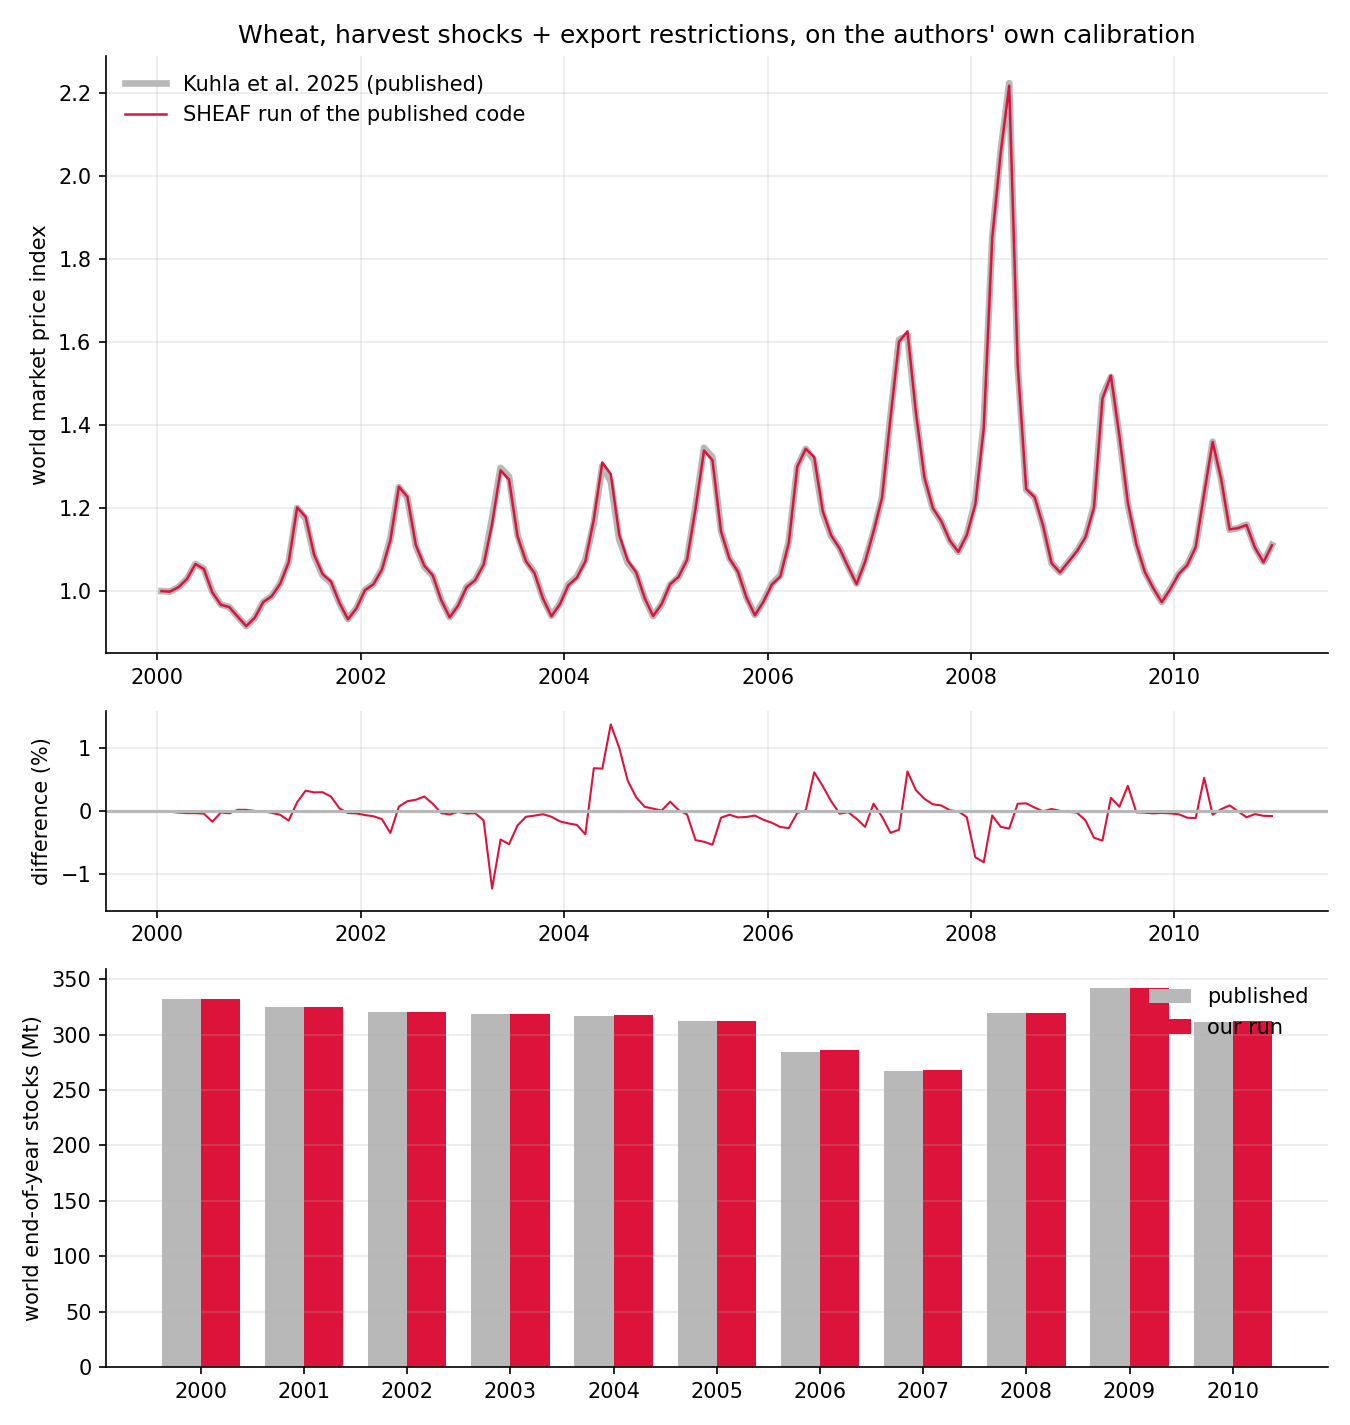
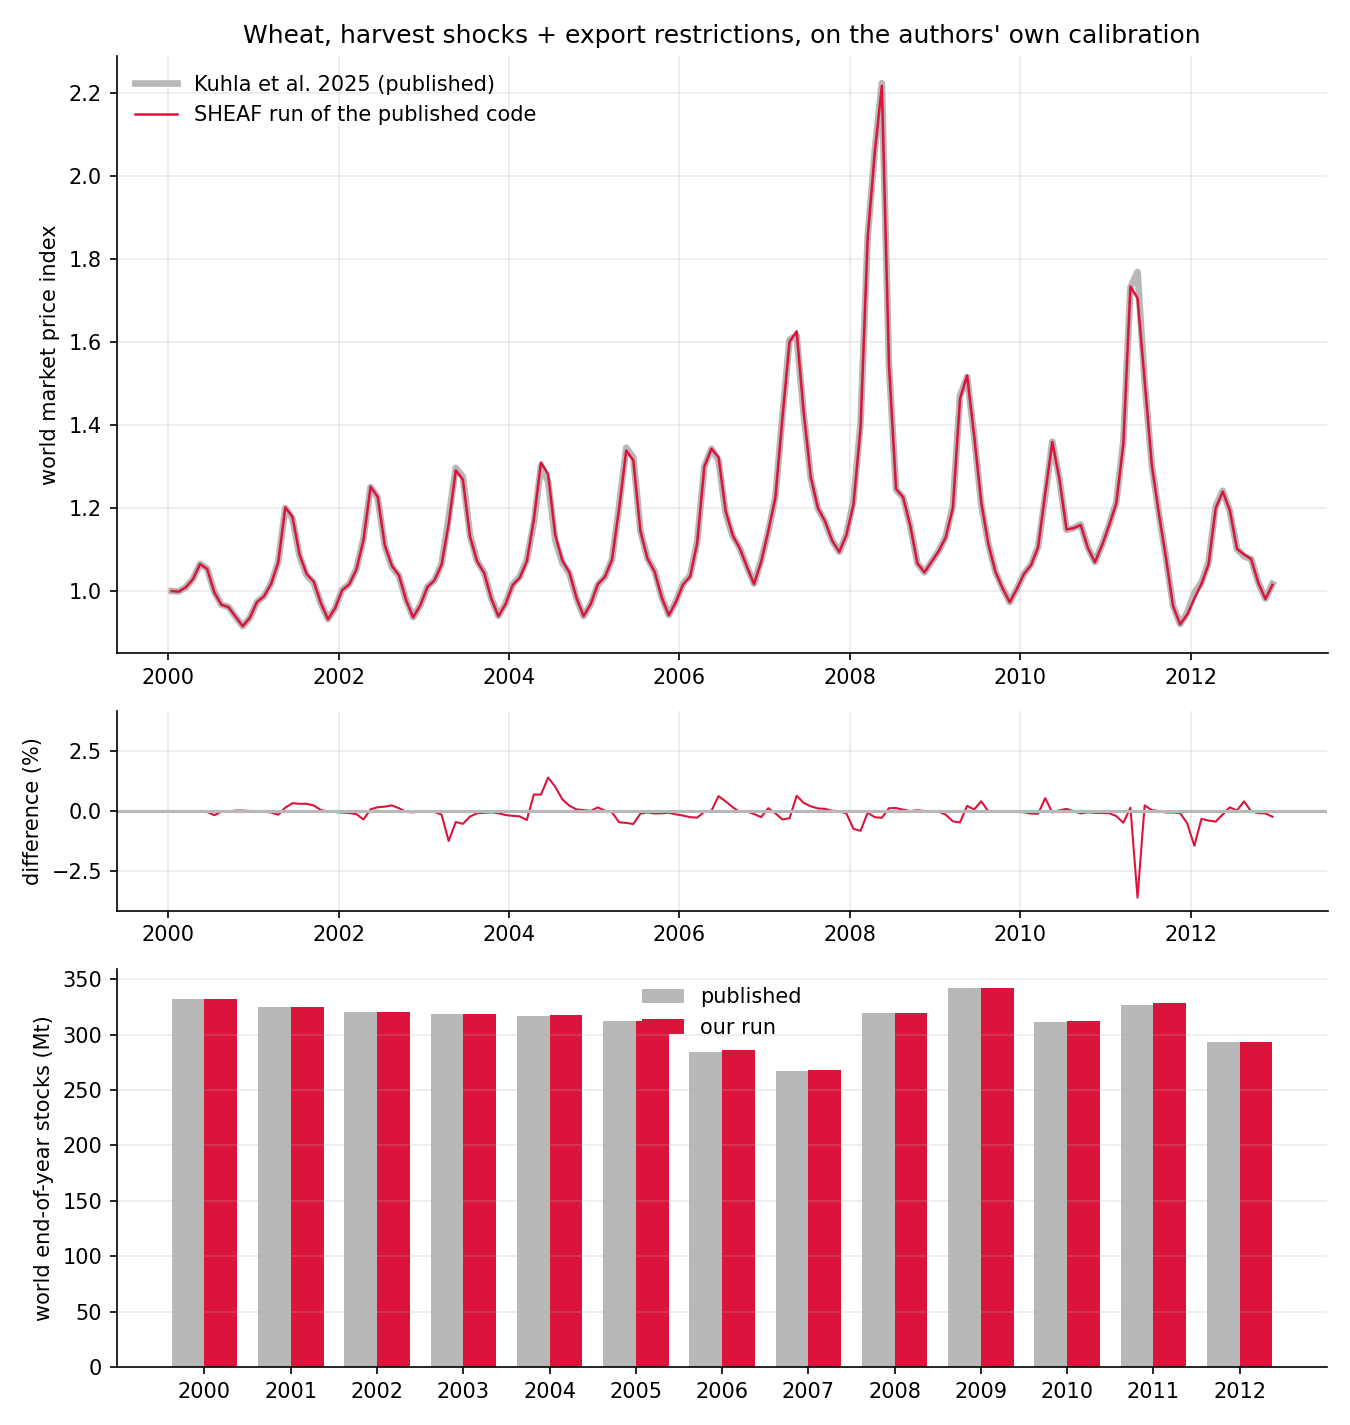
Gate 0 J10 done: published code on the authors' calibration reproduces their wheat run (07/08 1.359 vs 1.361, 10/11 1.213 vs 1.219, peak 2.216 vs 2.223, stocks within 0.5%)

diff --git a/diagnostics/GATE0_JULIA_PROMPTS.md b/diagnostics/GATE0_JULIA_PROMPTS.md
@@ -3,21 +3,15 @@
 Paste **exactly one** prompt per session. Each block below already includes
 the preamble. Copy the whole fenced block. Do not skip. Do not open G1 or G2.
 
-**Now:** J10 is **running** (`gate0_julia/J10_authorbaseline.md`). J9
-showed the author's restrictions reach the simulation exactly — max abs
-diff 0 at all 312 steps for 9 of their 10 regions — yet close **none** of
-the stock gap (+22.4 % → +22.7 %) and widen the price ratios (07/08
-1.288 → 1.253 vs author 1.361). That put the residual in the reconstructed
-quantity inputs, so J10 inverts the author's published baseline arrays and
-their realized 312-step harvest back into the CSVs. At `t_max = 0` the
-model's baseline now matches theirs to solver tolerance (prices exact,
-sales/storage/demand/consumption ≤ 5e−8 relative, `baseline transaction
-quantity` 6.3e−3; the same comparison on the J9 inputs was 15–39 % off),
-the realized harvest matches to 2e−7 relative, and all **ten** restricted
-regions match at every step. The 312-step run will say whether the
-published code reproduces the published results once its own calibration
-is handed to it. J5 (Python launcher) can be pasted now. J6 needs your
-explicit acceptance of J4/J8/J9/J10.
+**Now:** J10 is **done**. The published Julia Agrimate code, given the
+authors' own calibration, **reproduces their published wheat run**
+(`gate0_julia/J10_authorbaseline.md`): 07/08 price ratio 1.359 vs 1.361,
+10/11 1.213 vs 1.219, May 2008 peak 2.216 vs 2.223, monthly correlation
+1.000, end-of-year stocks within 0.5 % every year 2000–2012. The J4/J8/J9
+gap was the unpublished input tables, not the code. Gate 0 is not
+accepted until you say so. The next work is the repository reorganization
+(`diagnostics/REORG_PLAN.md`): vendor the Julia code as the host, retire
+the Python hosts, rewrite the governance docs. J5/J6 wait on that.
 
 ## Where this stands
 
@@ -80,7 +74,7 @@ Invoke Julia as `arch -x86_64 <julia> --project=.`. Do not `brew install julia`.
 | J4 | Compare the three runs with the author NetCDF | **done** — not a reproduction; published code on reconstructed inputs, levels off (`gate0_julia/J4.md`). Harvest + restrictions re-scored 2026-10-02 after the clipped-restriction rerun; the gap remains |
 | J8 | Same three runs with the author's region ψ, A_d*, A_c* (added, not in the original list) | **done** — stocks gap +30 % → +20 %; price gap almost unchanged; not a reproduction (`gate0_julia/J8_authorparams.md`) |
 | J9 | Harvest + restrictions on J8 inputs plus the author's own restriction series (added, not in the original list) | **done** — restrictions carried through exactly for 9 of 10 regions; closes none of the stock gap, widens the price ratios; not a reproduction (`gate0_julia/J9_authorrestr.md`) |
-| J10 | Harvest + restrictions on the author's own calibrated baseline and realized harvest (added, not in the original list) | **running** — inputs verified at `t_max = 0`: baseline matches the author to solver tolerance, harvest to 2e−7, all ten restricted regions exact (`gate0_julia/J10_authorbaseline.md`) |
+| J10 | Harvest + restrictions on the author's own calibrated baseline and realized harvest (added, not in the original list) | **done** — reproduction: 07/08 1.359 vs 1.361, 10/11 1.213 vs 1.219, peak 2.216 vs 2.223, stocks within 0.5 % every year (`gate0_julia/J10_authorbaseline.md`) |
 | **J5** | Python script that only launches that Julia run | **next** (J3 has three files) |
 | J6 | Point the Gate 0 docs at this host | only if you accept J4/J8/J9/J10 |
 | J7 | GitHub cleanup | only after J6, and only when you ask |

diff --git a/diagnostics/gate0_julia/J10_authorbaseline.md b/diagnostics/gate0_julia/J10_authorbaseline.md
@@ -1,6 +1,8 @@
 # J10 — the author's own calibrated baseline as input
 
-Status: inputs built and verified at `t_max = 0`; 312-step run in progress.
+Status: **done**. 312-step run finished 2026-10-07T11:19Z, exit 0. The
+published code, given the authors' own calibration, reproduces the
+published wheat results.
 
 ## Why
 
@@ -166,18 +168,43 @@ the model. Classification **H** for the code path, **F** for the public
 reproducibility of the inputs; confidence 95–100 % on the metrics above,
 which are directly reproduced.
 
-Still open until the run finishes: the 2010/11 price ratio (author 1.219),
-which needs steps through mid-2011, and the end-2012 stock level.
+## Final result (312 steps, exit 0)
+
+| metric | J4 | J8 | J9 | **J10** | author |
+|---|---|---|---|---|---|
+| 2000–2005 mean world price | ~1.00 | — | — | **1.0589** | 1.0590 |
+| 2007/08 price ratio | 1.277 | 1.288 | 1.253 | **1.359** | 1.361 |
+| 2010/11 price ratio | 1.149 | 1.155 | 1.105 | **1.213** | 1.219 |
+| peak world price | 1.736 (05/08) | 1.764 (05/08) | 1.767 (06/08) | **2.216 (05/08)** | 2.223 (05/08) |
+| monthly price correlation | 0.852 | 0.858 | 0.847 | **1.000** | — |
+| end-2008 world stocks | +33.4 % | +22.4 % | +22.7 % | **+0.1 %** | — |
+| end-2012 world stocks | — | — | — | **+0.1 %** | — |
+
+End-of-year world stocks stay within 0.5 % for every year 2000–2012.
+The 2010/11 ratio, the remaining open number at the interim check, lands
+at 1.213 against 1.219.
+
+**Verdict: this is a reproduction of the published wheat run.** The
+published code, given the authors' own calibration, reproduces their
+published magnitudes. The gap measured in J4, J8 and J9 was SHEAF's
+reconstruction of the unpublished input tables — not the code, the
+parameters, the restriction series, or a misreading of the model.
+
+| Conclusion | Class | Confidence |
+|---|---|---|
+| Code path reproduces the published wheat run on the authors' calibration | **H** | 95–100 % |
+| Public-data reconstruction of the unpublished inputs does not reproduce those magnitudes | **F** | 95–100 % |
+| Residual 0.2–0.5 % on prices and stocks is the 0.63 % baseline-trade-QP mismatch propagating | **C** | 80–95 % |
+
+Figure: [`figures/gate0_j10_vs_author.png`](../../figures/gate0_j10_vs_author.png).
 
 ## Run cost
 
-The 2010–2013 window is solving far more slowly than the rest of the run
-(20–36 min/step against 2–3 min/step earlier, with Julia holding a full
-core, so this is solver difficulty rather than system load). The
-`Internal error: encountered unexpected error in runtime` traces in the log
-are a known Julia 1.6 inference hiccup that the runtime recovers from; the
-same 16 appear in the J2, J3 and J9 logs, all of which completed with
-exit 0.
-
-Final scoring to follow against the author's harvest+restrictions run,
-using the J4/J8/J9 metrics.
+Wall time 2026-10-05T03:22Z to 2026-10-07T11:19Z (~56 h), inflated by
+machine sleep. The 2010–2013 window solved far more slowly than the rest
+of the run (20–36 min/step against 2–3 min/step earlier), with Julia
+holding a full core, so that is solver difficulty rather than system
+load. The `Internal error: encountered unexpected error in runtime`
+traces in the log are a known Julia 1.6 inference hiccup that the
+runtime recovers from; the same traces appear in the J2, J3 and J9 logs,
+all of which completed with exit 0.

diff --git a/README.md b/README.md
@@ -57,11 +57,11 @@ piece, and is still off in this figure.
 
 The published Julia Agrimate code (Kuhla et al. 2025, Zenodo 14022004),
 given the authors' own calibration, **reproduces their published wheat
-run**. Through 2010 the 2007/08 world-price ratio is 1.359 against their
-1.361, the May 2008 peak is 2.216 against 2.223, monthly prices correlate
-at 1.000, and end-of-year stocks are within 0.5 % every year
-([`diagnostics/gate0_julia/J10_authorbaseline.md`](diagnostics/gate0_julia/J10_authorbaseline.md);
-the last two years of the 312-step run are still writing).
+run**. The 2007/08 world-price ratio is 1.359 against their 1.361, 2010/11
+is 1.213 against 1.219, the May 2008 peak is 2.216 against 2.223, monthly
+prices correlate at 1.000, and end-of-year stocks are within 0.5 % every
+year 2000–2012
+([`diagnostics/gate0_julia/J10_authorbaseline.md`](diagnostics/gate0_julia/J10_authorbaseline.md)).
 
 ![J10: SHEAF run of the published code versus Kuhla et al. 2025](figures/gate0_j10_vs_author.png)
 
@@ -75,8 +75,8 @@ reconstruction (J4, J8, J9) ran the same code and did **not** reproduce
 the published magnitudes — stocks +23 %, 2007/08 ratio 1.25 versus 1.36 —
 so public-data reproducibility remains an open limitation.*
 
-Gate 0 is **not** accepted yet: the run has to finish, and acceptance is
-your call. The host is being moved to the Julia code driven directly
+Gate 0 is **not** accepted yet — that is your call. The host is being
+moved to the Julia code driven directly
 ([`diagnostics/REORG_PLAN.md`](diagnostics/REORG_PLAN.md)). The Quick start
 below still points at the earlier Python host until that lands.
 
